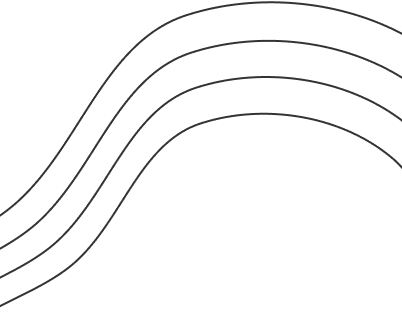
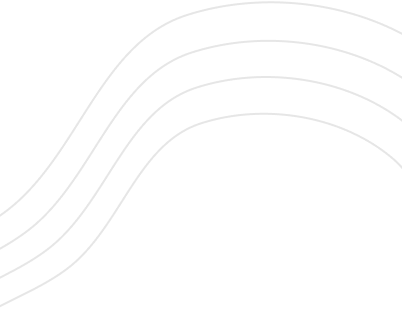
Enhance filter functionality and UI components
- Updated app.json to include a bundle identifier for iOS.
- Modified package.json scripts to use `expo run` for Android and iOS.
- Added new Price interface in types.d.ts for better type management.
- Updated FilterPrice and FilterSort components to handle price and sorting changes more effectively.
- Introduced initial filter state in constants and integrated it into the filter store.
- Enhanced AppButton styles for better visual distinction based on variant.
- Updated styles for FilterSheet to improve layout and user interaction.

diff --git a/screens/sheets/filter/index.tsx b/screens/sheets/filter/index.tsx
@@ -1,10 +1,12 @@
 import Ionicons from '@expo/vector-icons/Ionicons';
 import { router } from 'expo-router';
-import { useMemo } from 'react';
+import { useMemo, useState } from 'react';
 import { Text, View } from 'react-native';
 
 import { AppButton, AppSafeArea, Divider } from '@/components';
+import { INITIAL_FILTERS } from '@/constants';
 import { useTheme } from '@/hooks';
+import useFilterStore from '@/store/filter-store';
 
 import { FilterPrice, FilterSort } from './components';
 import makeStyles from './styles';
@@ -12,27 +14,53 @@ import makeStyles from './styles';
 const FilterSheet = () => {
 	const theme = useTheme();
 	const styles = useMemo(() => makeStyles(theme), [theme]);
+	const setFilters = useFilterStore((state) => state.setFilters);
+	const [internalFilters, setInternalFilters] = useState(useFilterStore.getState().filters);
+
+	const isFiltersChanged = JSON.stringify(internalFilters) !== JSON.stringify(INITIAL_FILTERS);
+
+	const handleSortChange = (value: string) => {
+		setInternalFilters((prev) => ({ ...prev, sort: value }));
+	};
+
+	const handlePriceChange = (price: Price) => {
+		setInternalFilters((prev) => ({ ...prev, price }));
+	};
+
+	const handleApplyFilters = () => {
+		setFilters(internalFilters);
+		router.dismiss();
+	};
+
+	const handleResetFilters = () => {
+		setInternalFilters(INITIAL_FILTERS);
+	};
 
 	return (
 		<AppSafeArea style={styles.safeArea}>
 			<View style={styles.container}>
 				<View style={styles.header}>
 					<Text style={styles.headerTitle}>Filter</Text>
-					<AppButton
-						size='icon'
-						variant='ghost'
-						iconAfter={<Ionicons name='close' style={styles.closeIcon} />}
-						style={styles.closeBtn}
-						onPress={() => router.dismiss()}
-					/>
+					<View style={styles.actionButtons}>
+						{isFiltersChanged && (
+							<AppButton size='sm' variant='outline' title='Reset' onPress={handleResetFilters} />
+						)}
+						<AppButton
+							size='icon'
+							variant='ghost'
+							iconAfter={<Ionicons name='close' style={styles.closeIcon} />}
+							style={styles.closeBtn}
+							onPress={() => router.dismiss()}
+						/>
+					</View>
 				</View>
 				<View style={styles.body}>
-					<FilterSort />
+					<FilterSort value={internalFilters.sort} onSortChange={handleSortChange} />
 					<Divider style={styles.divider} />
-					<FilterPrice />
+					<FilterPrice price={internalFilters.price} onValueChange={handlePriceChange} />
 				</View>
 				<View style={styles.footer}>
-					<AppButton title='Apply Filters' />
+					<AppButton title='Apply Filters' onPress={handleApplyFilters} />
 				</View>
 			</View>
 		</AppSafeArea>

diff --git a/screens/sheets/filter/components/filter-price/index.tsx b/screens/sheets/filter/components/filter-price/index.tsx
@@ -1,23 +1,33 @@
-import React, { useCallback, useMemo, useState } from 'react';
+import React, { useCallback, useEffect, useMemo, useRef, useState } from 'react';
 import { View, Text } from 'react-native';
 import RangeSlider from 'react-native-sticky-range-slider';
 
+import { MAX_PRICE, MIN_PRICE } from '@/constants';
 import { useTheme } from '@/hooks';
 
 import makeStyles from './styles';
 
-const MIN_AGE = 1;
-const MAX_AGE = 20;
+interface FilterPriceProps {
+	price: Price;
+	onValueChange: (price: Price) => void;
+}
 
-const FilterPrice = () => {
+const FilterPrice = ({ price, onValueChange }: FilterPriceProps) => {
 	const theme = useTheme();
 	const styles = useMemo(() => makeStyles(theme), [theme]);
-	const [min, setMin] = useState(MIN_AGE);
-	const [max, setMax] = useState(MAX_AGE);
+	const [initialPrice, setInitialPrice] = useState(price);
+	const onChangeValueRef = useRef(onValueChange);
 
-	const handleValueChange = useCallback((newLow: number, newHigh: number) => {
-		setMin(newLow);
-		setMax(newHigh);
+	useEffect(() => {
+		setInitialPrice(price);
+	}, [price]);
+
+	onChangeValueRef.current = onValueChange;
+
+	const handleValueChange = useCallback((min: number, max: number) => {
+		setInitialPrice({ min, max });
+
+		onChangeValueRef.current({ min, max });
 	}, []);
 
 	return (
@@ -25,16 +35,16 @@ const FilterPrice = () => {
 			<View style={styles.header}>
 				<Text style={styles.title}>Price</Text>
 				<Text style={styles.range}>
-					${min} - ${max}
+					${initialPrice.min} - ${initialPrice.max}
 				</Text>
 			</View>
 			<RangeSlider
-				min={MIN_AGE}
-				max={MAX_AGE}
+				min={MIN_PRICE}
+				max={MAX_PRICE}
 				step={1}
 				minRange={5}
-				low={min}
-				high={max}
+				low={initialPrice.min}
+				high={initialPrice.max}
 				onValueChanged={handleValueChange}
 				renderHighValue={() => null}
 				renderLowValue={() => null}

diff --git a/constants/themes.ts b/constants/themes.ts
@@ -2,25 +2,24 @@ export const rootTheme = {
 	colors: {
 		primary: '#846EFD',
 		primaryForeground: '#ffffff',
-		secondary: '#2E2D2D',
-		secondaryForeground: '#ffffff',
-		success: '#42B97D',
+		primaryOpacity: 'rgba(132, 110, 253, 0.05)',
+		success: '#0C9409',
 		successForeground: '#ffffff',
 		successOpacity: 'rgba(66, 185, 125, 0.05)',
-		card: '#242424',
-		destructive: '#E65252',
+		card: '#F6F5F8',
+		destructive: '#ED1010',
 		destructiveForeground: '#ffffff',
 		destructiveOpacity: 'rgba(237, 16, 16, 0.05)',
-		warning: '#E6BF52',
+		warning: '#FFA928',
 		warningForeground: '#ffffff',
-		background: '#1A1919',
-		foreground: '#FFFFFF',
-		muted: '#625E5E',
-		mutedForeground: '#CCCCCC',
-		border: '#353535',
-		input: '#242424',
-		modal: '#242424',
-		backdrop: 'rgba(0, 0, 0, 0.63)',
+		background: '#ffffff',
+		foreground: '#1A1A1A',
+		muted: '#CCCCCC',
+		mutedForeground: '#808080',
+		border: '#E6E6E6',
+		input: '#ffffff',
+		modal: '#ffffff',
+		backdrop: 'rgba(25, 25, 25, 0.20)',
 	},
 	fonts: {
 		regular: 'Inter_400Regular',

diff --git a/screens/sheets/filter/components/filter-sort/index.tsx b/screens/sheets/filter/components/filter-sort/index.tsx
@@ -7,16 +7,33 @@ import { useTheme } from '@/hooks';
 
 import makeStyles from './styles';
 
-const FilterSort = () => {
+interface FilterSortProps {
+	value: string;
+	onSortChange: (value: string) => void;
+}
+
+const FilterSort = ({ value, onSortChange }: FilterSortProps) => {
 	const theme = useTheme();
 	const styles = useMemo(() => makeStyles(theme), [theme]);
+
+	const sortValue = value;
+
+	const handleSortChange = (value: string) => {
+		onSortChange(value);
+	};
 
 	return (
 		<View style={styles.container}>
 			<Text style={styles.title}>Sort By</Text>
 			<View style={styles.options}>
 				{SORT_OPTIONS.map(({ id, label, value }) => (
-					<AppButton key={id} size='md' variant={'outline'} title={label} />
+					<AppButton
+						key={id}
+						size='md'
+						variant={sortValue === value ? 'primary' : 'outline'}
+						title={label}
+						onPress={() => handleSortChange(value)}
+					/>
 				))}
 			</View>
 		</View>

diff --git a/store/filter-store.ts b/store/filter-store.ts
@@ -1,30 +1,25 @@
 import { create } from 'zustand';
 import { createJSONStorage, persist } from 'zustand/middleware';
 
+import { INITIAL_FILTERS } from '@/constants';
+
 import zustandStore from './storage';
 
-interface Price {
-	minPrice: number;
-	maxPrice: number;
+interface Filters {
+	sort: string;
+	price: Price;
 }
 
 interface InitialState {
-	sort: string;
-	price: Price;
-	setSort: (value: string) => void;
-	setPrice: (price: Price) => void;
+	filters: Filters;
+	setFilters: (filters: Filters) => void;
 }
 
 const useFilterStore = create<InitialState>()(
 	persist(
 		(set) => ({
-			sort: 'default',
-			price: {
-				minPrice: 1,
-				maxPrice: 20,
-			},
-			setSort: (value) => set({ sort: value }),
-			setPrice: (price) => set({ price: price }),
+			filters: INITIAL_FILTERS,
+			setFilters: (filters) => set({ filters }),
 		}),
 		{
 			name: 'filters',

diff --git a/components/app-button/styles.ts b/components/app-button/styles.ts
@@ -34,7 +34,7 @@ const makeStyles = ({ colors, fonts, fontSizes, spaces, rounded }: Theme) => {
 			backgroundColor: colors.primary,
 		},
 		secondary: {
-			backgroundColor: colors.secondary,
+			backgroundColor: colors.primaryOpacity,
 		},
 		destructive: {
 			backgroundColor: colors.destructive,
@@ -43,6 +43,9 @@ const makeStyles = ({ colors, fonts, fontSizes, spaces, rounded }: Theme) => {
 			backgroundColor: 'transparent',
 			borderColor: colors.border,
 		},
+		outlineText: {
+			color: colors.foreground,
+		},
 		ghost: {
 			backgroundColor: 'transparent',
 		},
@@ -50,6 +53,9 @@ const makeStyles = ({ colors, fonts, fontSizes, spaces, rounded }: Theme) => {
 			fontFamily: fonts.medium,
 			fontSize: ms(fontSizes.base),
 			color: colors.primaryForeground,
+		},
+		titleSecondary: {
+			color: colors.primary,
 		},
 		pressedOpacity: {
 			opacity: 0.7,

diff --git a/constants/index.ts b/constants/index.ts
@@ -7,6 +7,8 @@ export const keyboardBehavior = Platform.OS === 'ios' ? 'padding' : 'height';
 
 export const ITEM_SPACING = ms(rootTheme.spaces.lg);
 export const LAYOUT_PADDING = ms(rootTheme.spaces.xl);
+export const MIN_PRICE = 0;
+export const MAX_PRICE = 30000;
 
 export const SORT_OPTIONS = [
 	{
@@ -35,3 +37,11 @@ export const SORT_OPTIONS = [
 		value: 'stock:desc',
 	},
 ];
+
+export const INITIAL_FILTERS = {
+	sort: 'default',
+	price: {
+		min: MIN_PRICE,
+		max: MAX_PRICE,
+	},
+};

diff --git a/components/app-button/index.tsx b/components/app-button/index.tsx
@@ -80,7 +80,15 @@ const AppButton = ({
 				<>
 					{iconBefore && iconBefore}
 					{title && (
-						<Text style={[styles.title, titleStyle, isDisabled && styles.disabledText]}>
+						<Text
+							style={[
+								styles.title,
+								titleStyle,
+								variant === 'secondary' && styles.titleSecondary,
+								variant === 'outline' && styles.outlineText,
+								isDisabled && styles.disabledText,
+							]}
+						>
 							{title}
 						</Text>
 					)}

diff --git a/components/app-picker/index.tsx b/components/app-picker/index.tsx
@@ -58,7 +58,7 @@ const AppPicker = <T extends FieldValues>({
 			<View style={styles.container}>
 				<Text style={styles.label}>{label}</Text>
 				<AppButton
-					variant='secondary'
+					variant='outline'
 					title={selectedValue || placeholder}
 					style={[styles.trigger, error && styles.triggerError, triggerStyles]}
 					titleStyle={!selectedValue && styles.triggerText}

diff --git a/screens/sheets/filter/styles.ts b/screens/sheets/filter/styles.ts
@@ -28,6 +28,12 @@ const makeStyles = ({ colors, fonts, fontSizes, spaces, rounded }: Theme) => {
 			fontSize: ms(fontSizes.lg),
 			color: colors.foreground,
 		},
+		actionButtons: {
+			flexDirection: 'row',
+			alignItems: 'center',
+			justifyContent: 'space-between',
+			gap: ms(spaces.xxs),
+		},
 		closeBtn: {
 			width: ms(40),
 			height: ms(40),

diff --git a/components/screen-header/index.tsx b/components/screen-header/index.tsx
@@ -5,7 +5,7 @@ import { View, Text } from 'react-native';
 
 import { useTheme } from '@/hooks';
 
-import { BackButton } from '..';
+import BackButton from '../back-button';
 
 import makeStyles from './styles';
 

diff --git a/types.d.ts b/types.d.ts
@@ -72,3 +72,8 @@ interface FilterParams {
 	minPrice?: string;
 	maxPrice?: string;
 }
+
+interface Price {
+	min: number;
+	max: number;
+}
